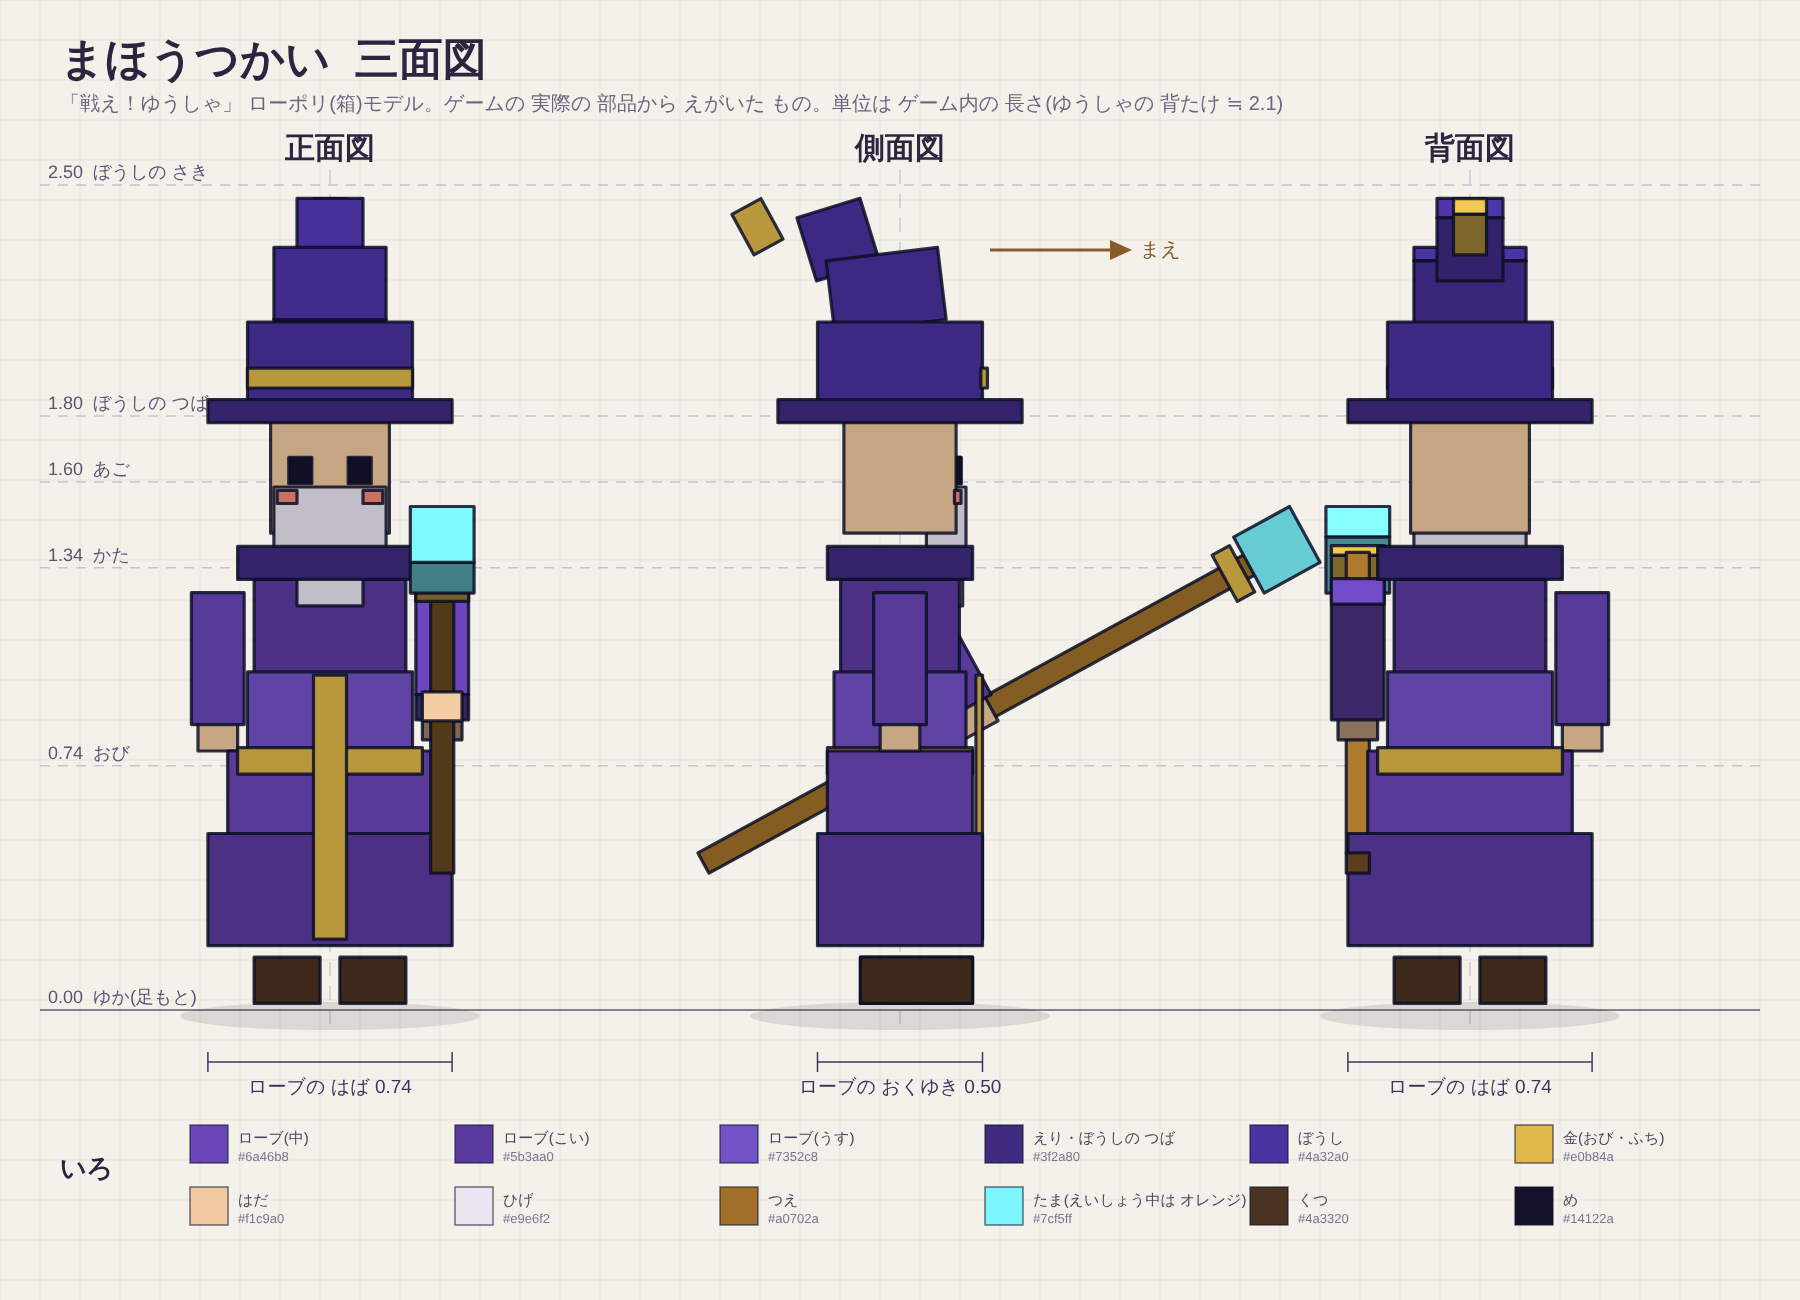
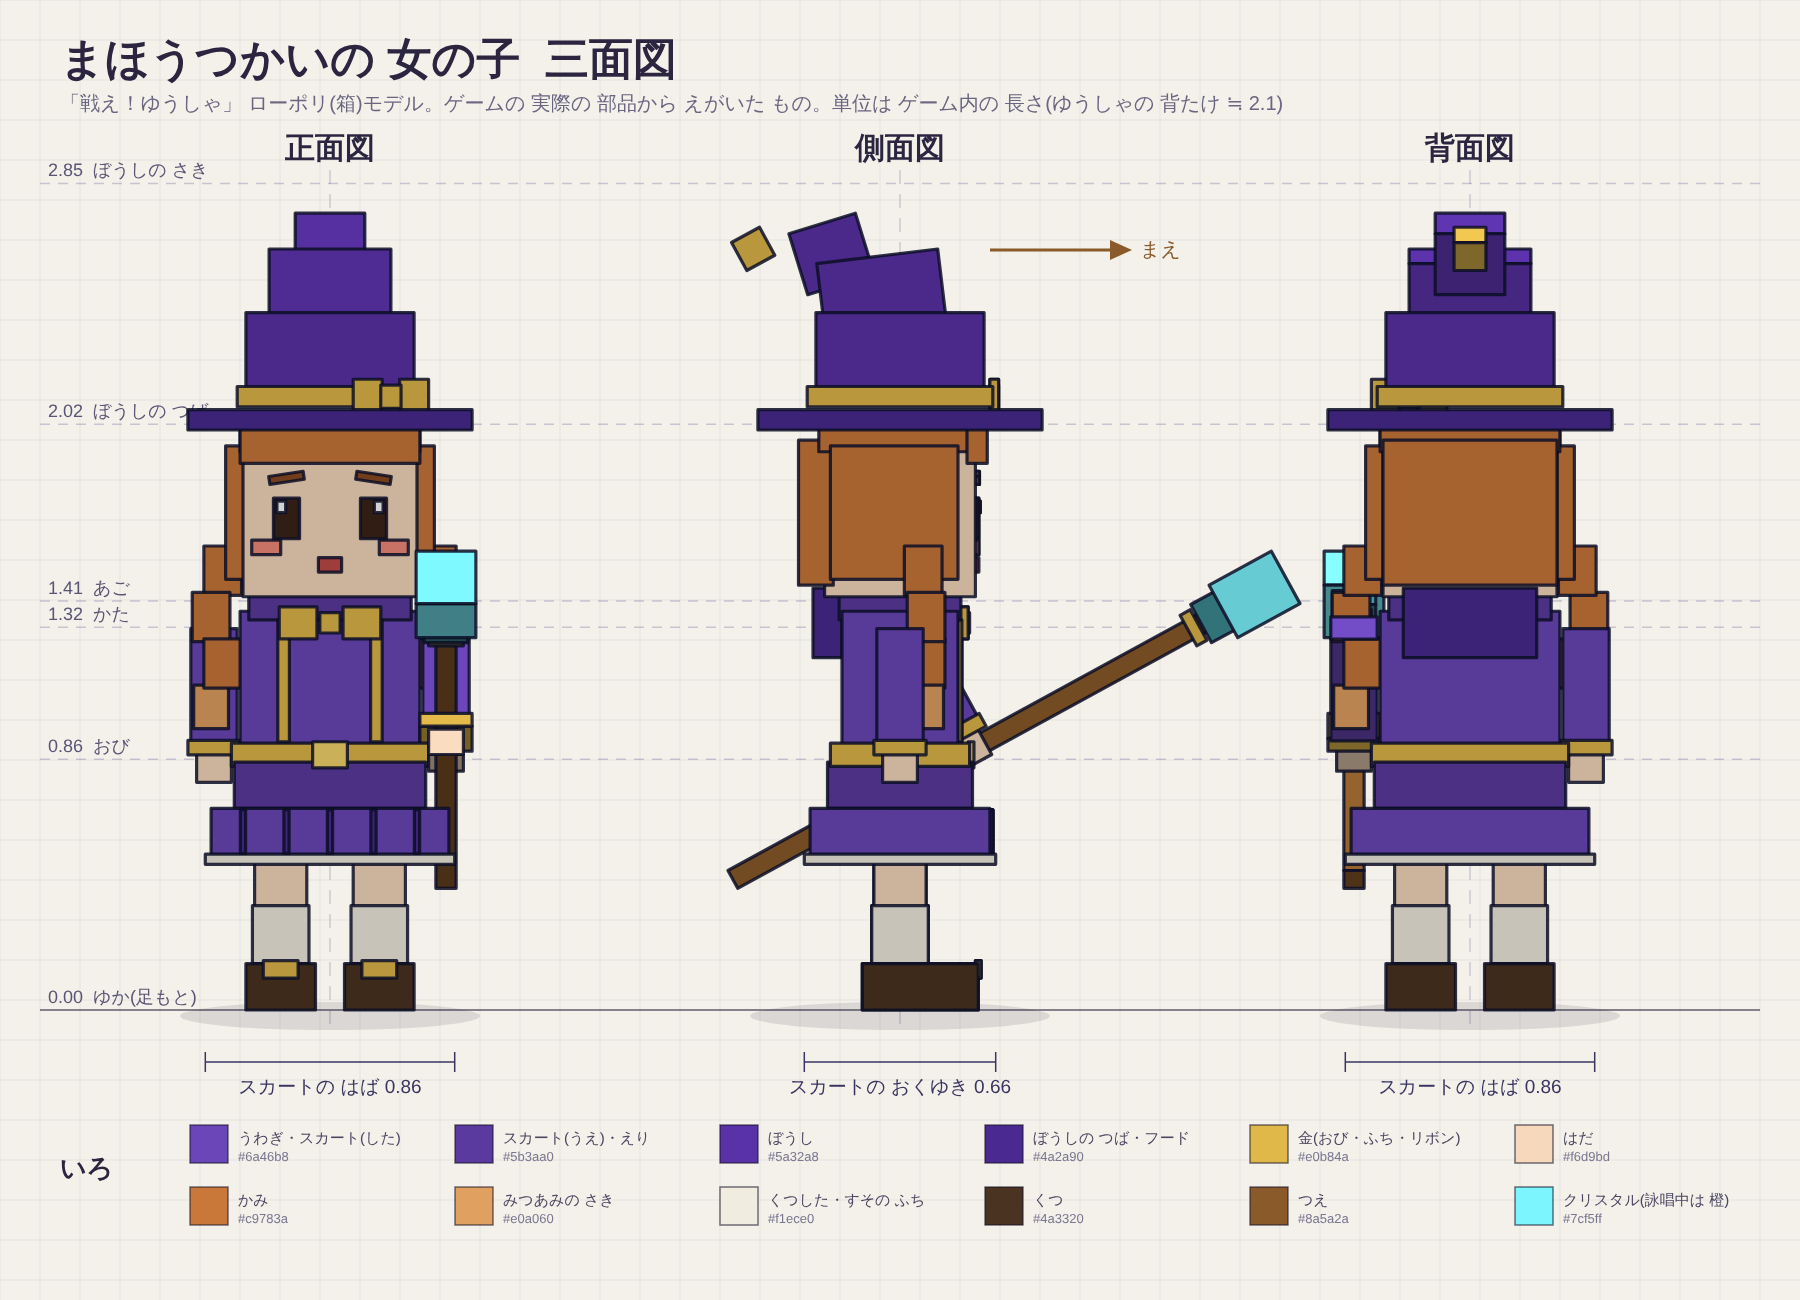
戦え！ゆうしゃ: まほうつかいを 女の子のデザインに変える(三面図も作りなおし)
- むらさきの とんがりぼうし(金の おび・リボン)、オレンジの かみ(ツインテールの みつあみ)、金の ふちの うわぎ・
  きいろい リボン・プリーツの スカート・かわの くつ・水いろの クリスタルの つえ。ちびキャラの たいけい
- 詠唱中の クリスタルの いろ・大きさ、たおれる 動き、歩きは そのまま
- 三面図(docs/mage-3view.png)を 新しい デザインで 作りなおした

Claude-Session: https://claude.ai/code/session_01GZCPfjk6Nwrr2GzwhtpaEB

diff --git a/games/Tatakae-Yusha/src/render2d.js b/games/Tatakae-Yusha/src/render2d.js
@@ -312,30 +312,69 @@ export function faceTo(o,tx,tz,rate){
   else if(o.yaw3===undefined)o.yaw3=Math.PI;
 }
 export function allyParts(yaw,mv,ph,cast,fire,down){
+  // まほうつかいの 女の子(ユーザー指定のデザイン 2026-11-22): むらさきの とんがりぼうし(金の おびと リボン)、オレンジの かみ(ツインテールの みつあみ)、
+  // 金の ふちの うわぎ・きいろい リボン・プリーツの スカート・しろい すそ、かわの くつ、水いろの クリスタルの つえ。ぜんぶ 箱の 部品
   const t=performance.now()/1000,bob=Math.sin(t*2.3)*0.02-Math.abs(Math.sin(ph))*0.05*mv;
   const parts=[],B=(cx,cy,cz,sx,sy,sz,col,ops,bias)=>parts.push({c:[cx,cy,cz],s:[sx,sy,sz],col,ops:ops||[],bias:bias||0});
+  const GOLD='#e0b84a',PUR='#6a46b8',PURD='#5b3aa0',HAT='#5a32a8',HATD='#4a2a90',SKIN='#f6d9bd',HAIR='#c9783a',HAIR2='#e0a060',SHOE='#4a3320',SOCK='#f1ece0';
   const sw=Math.sin(ph)*0.5*mv;
-  for(const sx of [-1,1])B(sx*0.13,0.09,0.05+sx*sw*0.1,0.2,0.14,0.34,'#4a3320',[{t:'x',a:sx*sw,p:[sx*0.13,0.4,0]}]);
-  B(0,0.35+bob,0,0.74,0.34,0.5,'#5b3aa0');B(0,0.62+bob,0,0.62,0.3,0.44,'#6a46b8');B(0,0.88+bob,0,0.5,0.26,0.4,'#7352c8');
-  B(0,0.6+bob,0.24,0.1,0.8,0.02,'#e0b84a',[],0.02);                // ローブの 金のすじ
-  B(0,0.74+bob,0,0.56,0.08,0.44,'#e0b84a');                          // おび
-  B(0,1.12+bob,0,0.46,0.34,0.36,'#5b3aa0');                           // むね
-  B(0,1.34+bob,0,0.56,0.1,0.44,'#3f2a80');B(0,1.32+bob,0,0.4,0.05,0.4,'#e0b84a'); // えり
-  B(0,1.6+bob,0,0.36,0.34,0.34,'#f1c9a0');                            // かお
-  for(const sx of [-1,1]){B(sx*0.09,1.62+bob,0.175,0.07,0.08,0.02,'#14122a',[],0.03);B(sx*0.13,1.54+bob,0.175,0.06,0.04,0.02,'#f08a7a',[],0.02);}
-  B(0,1.46+bob,0.14,0.34,0.22,0.12,'#e9e6f2');B(0,1.32+bob,0.14,0.2,0.22,0.1,'#e9e6f2'); // ひげ
-  B(0,1.8+bob,0,0.74,0.07,0.74,'#3f2a80');                            // ぼうしの つば
-  B(0,1.95+bob,0,0.5,0.24,0.5,'#4a32a0');B(0,2.17+bob,-0.02,0.34,0.22,0.34,'#4a32a0',[{t:'x',a:-0.12,p:[0,2.0,0]}]);
-  B(0,2.36+bob,-0.08,0.2,0.2,0.2,'#4a32a0',[{t:'x',a:-0.3,p:[0,2.0,0]}]);B(0,2.52+bob,-0.2,0.1,0.14,0.1,'#e0b84a',[{t:'x',a:-0.5,p:[0,2.0,0]}]);
-  B(0,1.9+bob,0.255,0.5,0.06,0.02,'#e0b84a',[],0.03);
-  // うで(ひだり: ふる / みぎ: つえ)
-  B(-0.34,1.05+bob,0.0,0.16,0.4,0.16,'#6a46b8',[{t:'x',a:-sw*0.8,p:[-0.34,1.28,0]}]);B(-0.34,0.82+bob,0.0,0.12,0.1,0.12,'#f1c9a0',[{t:'x',a:-sw*0.8,p:[-0.34,1.28,0]}]);
-  const ca=-0.5-0.9*Math.min(1,cast||0),ra=[{t:'x',a:ca,p:[0.34,1.28+bob,0]}];
-  B(0.34,1.05+bob,0,0.16,0.4,0.16,'#6a46b8',ra);B(0.34,0.82+bob,0,0.12,0.1,0.12,'#f1c9a0',ra);
-  B(0.34,0.82+bob,0.02,0.07,0.07,1.9,'#a0702a',ra);                  // つえ
-  const pul=0.14+0.04*Math.sin(t*6)+0.08*Math.min(1,cast||0)+0.12*Math.max(0,(cast||0)-1); // つよい 魔法の えいしょう中は たまが 大きくなる
-  B(0.34,0.82+bob,1.05,pul*1.5,pul*1.5,pul*1.5,fire?(fire==='strong'?'#ff6a2a':'#ffb040'):'#7cf5ff',ra,0.05);   // たま(ほのおの えいしょう中は オレンジ)
-  B(0.34,0.82+bob,0.9,0.16,0.16,0.06,'#e0b84a',ra);
+  // ---- あし(あるくと こうごに ふる)・くつ。あたまが 大きく あしが みじかい ちびキャラの たいけい ----
+  for(const sx of [-1,1]){
+    const px=sx*0.17,lp=[{t:'x',a:sx*sw,p:[px,0.52,0]}];
+    B(px,0.34,0,0.18,0.36,0.18,SKIN,lp);                  // あし
+    B(px,0.26,0,0.195,0.2,0.195,SOCK,lp);                 // くつした
+    B(px,0.08,0.07,0.24,0.16,0.4,SHOE,lp);                // くつ
+    B(px,0.14,0.27,0.12,0.06,0.02,GOLD,lp,0.02);          // くつの 金具
+  }
+  // ---- スカート(プリーツ)・おび・うわぎ ----
+  B(0,0.505+bob,0,0.86,0.035,0.66,SOCK);                   // すその しろい ふち
+  B(0,0.6+bob,0,0.82,0.16,0.62,PUR);                       // スカート(した)
+  for(const px of [-0.3,-0.15,0,0.15,0.3])B(px,0.6+bob,0.312,0.018,0.15,0.016,HATD,[],0.02); // プリーツの すじ
+  B(0,0.76+bob,0,0.66,0.16,0.5,PURD);                      // スカート(うえ)
+  B(0,0.865+bob,0,0.68,0.08,0.48,GOLD);                    // おび
+  B(0,0.865+bob,0.245,0.12,0.09,0.02,'#f4d56a',[],0.03);   // バックル
+  B(0,1.13+bob,0,0.62,0.46,0.4,PUR);                       // うわぎ
+  B(-0.16,1.12+bob,0.206,0.04,0.42,0.015,GOLD,[],0.03);B(0.16,1.12+bob,0.206,0.04,0.42,0.015,GOLD,[],0.03); // 金の すじ
+  B(0,1.38+bob,0,0.56,0.1,0.42,PURD);                      // えり
+  B(0,1.32+bob,-0.25,0.46,0.24,0.1,HATD);                  // フード(せなか)
+  B(0,1.32+bob,0.22,0.07,0.07,0.04,GOLD,[],0.04);          // きいろい リボン(まんなか)
+  B(-0.11,1.32+bob,0.22,0.13,0.11,0.03,GOLD,[],0.03);B(0.11,1.32+bob,0.22,0.13,0.11,0.03,GOLD,[],0.03);
+  // ---- あたま・かお(大きい) ----
+  B(0,1.68+bob,0,0.6,0.54,0.52,SKIN);                      // かお
+  for(const sx of [-1,1]){
+    B(sx*0.15,1.68+bob,0.262,0.09,0.14,0.02,'#3a2418',[],0.03);                 // め
+    B(sx*0.15+sx*0.018,1.72+bob,0.272,0.03,0.04,0.01,'#ffffff',[],0.04);        // めの ひかり
+    B(sx*0.22,1.58+bob,0.262,0.1,0.05,0.02,'#f08a7a',[],0.02);                  // ほほ
+    B(sx*0.15,1.82+bob,0.264,0.12,0.028,0.02,'#8a4a20',[{t:'z',a:sx*-0.15,p:[sx*0.15,1.82+bob,0.264]}],0.03); // まゆ
+  }
+  B(0,1.52+bob,0.262,0.08,0.05,0.02,'#c04848',[],0.03);    // くち
+  // ---- かみ(オレンジ。ツインテールの みつあみ) ----
+  B(0,1.94+bob,0.266,0.62,0.14,0.07,HAIR,[],0.015);        // まえがみ
+  B(0,1.97+bob,-0.01,0.62,0.12,0.54,HAIR);                 // あたまの うえ
+  for(const sx of [-1,1]){
+    B(sx*0.325,1.7+bob,-0.02,0.07,0.46,0.44,HAIR);         // よこの かみ
+    B(sx*0.37,1.5+bob,0.08,0.13,0.17,0.13,HAIR);B(sx*0.41,1.34+bob,0.09,0.13,0.17,0.13,HAIR);B(sx*0.37,1.18+bob,0.09,0.13,0.17,0.13,HAIR);B(sx*0.41,1.03+bob,0.09,0.12,0.15,0.12,HAIR2); // みつあみ
+  }
+  B(0,1.7+bob,-0.29,0.6,0.5,0.12,HAIR);                    // うしろの かみ
+  // ---- ぼうし(むらさき。金の おびと リボン) ----
+  B(0,2.02+bob,0,0.98,0.07,0.98,HATD);                     // つば
+  B(0,2.1+bob,0,0.64,0.07,0.64,GOLD,[],0.01);              // 金の おび
+  B(0.21,2.1+bob,0.325,0.07,0.08,0.03,GOLD,[],0.04);B(0.13,2.1+bob,0.325,0.1,0.12,0.03,GOLD,[],0.03);B(0.29,2.1+bob,0.325,0.1,0.12,0.03,GOLD,[],0.03); // おびの リボン
+  B(0,2.26+bob,0,0.58,0.26,0.58,HAT);
+  B(0,2.47+bob,-0.02,0.42,0.24,0.42,HAT,[{t:'x',a:-0.12,p:[0,2.1+bob,0]}]);
+  B(0,2.64+bob,-0.08,0.24,0.22,0.24,HAT,[{t:'x',a:-0.3,p:[0,2.1+bob,0]}]);
+  B(0,2.79+bob,-0.2,0.11,0.11,0.11,GOLD,[{t:'x',a:-0.5,p:[0,2.1+bob,0]}]); // さきの かざり
+  // ---- うで(ひだり: ふる / みぎ: つえ。金の そでぐち) ----
+  const sh=1.32,la=[{t:'x',a:-sw*0.8,p:[-0.4,sh+bob,0]}];
+  B(-0.4,1.1+bob,0,0.16,0.4,0.16,PUR,la);B(-0.4,0.89+bob,0,0.18,0.05,0.18,GOLD,la);B(-0.4,0.82+bob,0,0.12,0.1,0.12,SKIN,la);
+  const ca=-0.5-0.9*Math.min(1,cast||0),ra=[{t:'x',a:ca,p:[0.4,sh+bob,0]}];
+  B(0.4,1.1+bob,0,0.16,0.4,0.16,PUR,ra);B(0.4,0.89+bob,0,0.18,0.05,0.18,GOLD,ra);B(0.4,0.82+bob,0,0.12,0.1,0.12,SKIN,ra);
+  // ---- つえ(クリスタルの あたま) ----
+  B(0.4,0.82+bob,0.02,0.07,0.07,1.9,'#8a5a2a',ra);         // え
+  B(0.4,0.82+bob,0.88,0.12,0.12,0.04,GOLD,ra);             // 金の わ
+  B(0.4,0.82+bob,0.96,0.15,0.15,0.1,'#3d8a92',ra);         // はめこみ
+  const pul=0.14+0.04*Math.sin(t*6)+0.08*Math.min(1,cast||0)+0.12*Math.max(0,(cast||0)-1); // つよい 魔法の えいしょう中は クリスタルが 大きくなる
+  B(0.4,0.82+bob,1.12,pul*1.6,pul*1.6,pul*1.9,fire?(fire==='strong'?'#ff6a2a':'#ffb040'):'#7cf5ff',ra,0.05);   // クリスタル(ほのおの えいしょう中は オレンジ)
   // たおれた まほうつかい: うしろへ ばたりと たおれ、よこむきに なって その場に たおれたまま(ゆうしゃと おなじ たおれかた)
   let yawOut=yaw;
   if(down>0){

diff --git a/games/Tatakae-Yusha/tools/sansmen.js b/games/Tatakae-Yusha/tools/sansmen.js
@@ -22,14 +22,14 @@ const ROOT=path.resolve(__dirname,'..'),T3=process.env.THREE_DIR||'',OUT=process
    // はいけい
    c.fillStyle='#f3f1ea';c.fillRect(0,0,W,H);
    c.strokeStyle='rgba(60,60,80,.07)';c.lineWidth=1;for(let x=0;x<W;x+=40){c.beginPath();c.moveTo(x,0);c.lineTo(x,H);c.stroke();}for(let y=0;y<H;y+=40){c.beginPath();c.moveTo(0,y);c.lineTo(W,y);c.stroke();}
-   c.fillStyle='#2b2540';c.font='bold 44px '+FONT;c.textBaseline='middle';c.fillText('まほうつかい  三面図',60,62);
+   c.fillStyle='#2b2540';c.font='bold 44px '+FONT;c.textBaseline='middle';c.fillText('まほうつかいの 女の子  三面図',60,62);
    c.font='20px '+FONT;c.fillStyle='#6a6580';c.fillText('「戦え！ゆうしゃ」 ローポリ(箱)モデル。ゲームの 実際の 部品から えがいた もの。単位は ゲーム内の 長さ(ゆうしゃの 背たけ ≒ 2.1)',60,104);
    // 部品(アニメの ない ふだんの ポーズ)
    const model=m.allyParts(Math.PI,0,0,0,'',0).parts;
    let top=0;for(const p of model){const hh=p.c[1]+p.s[1]/2+0.3;if(hh>top)top=hh;}
-   const S=330,baseY=1010,cxs=[330,900,1470],views=[['正面図',0],['側面図',Math.PI/2],['背面図',Math.PI]];
+   const S=290,baseY=1010,cxs=[330,900,1470],views=[['正面図',0],['側面図',Math.PI/2],['背面図',Math.PI]];
    // たかさの ガイド
-   const guides=[[0,'ゆか(足もと)'],[0.74,'おび'],[1.34,'かた'],[1.6,'あご'],[1.8,'ぼうしの つば'],[2.5,'ぼうしの さき']];
+   const guides=[[0,'ゆか(足もと)'],[0.865,'おび'],[1.32,'かた'],[1.41,'あご'],[2.02,'ぼうしの つば'],[2.85,'ぼうしの さき']];
    c.font='18px '+FONT;
    for(const [hh,label] of guides){const y=baseY-hh*S;c.strokeStyle=hh===0?'rgba(40,36,60,.55)':'rgba(120,110,160,.35)';c.setLineDash(hh===0?[]:[10,8]);c.lineWidth=hh===0?2:1.5;c.beginPath();c.moveTo(40,y);c.lineTo(W-40,y);c.stroke();c.setLineDash([]);c.fillStyle='#5a5575';c.textAlign='left';c.fillText(hh.toFixed(2)+'  '+label,48,y-12);}
    // 中心線と モデル
@@ -48,12 +48,12 @@ const ROOT=path.resolve(__dirname,'..'),T3=process.env.THREE_DIR||'',OUT=process
     c.font='20px '+FONT;c.textAlign='left';c.fillStyle='#8a5a2a';c.fillText('まえ',x+240,y);}
    // 寸法(はば・おくゆき)
    const dim=(x1,x2,y,label)=>{c.strokeStyle='#3a3560';c.fillStyle='#3a3560';c.lineWidth=1.5;c.beginPath();c.moveTo(x1,y);c.lineTo(x2,y);c.stroke();for(const x of [x1,x2]){c.beginPath();c.moveTo(x,y-10);c.lineTo(x,y+10);c.stroke();}c.font='19px '+FONT;c.textAlign='center';c.fillText(label,(x1+x2)/2,y+26);};
-   dim(cxs[0]-0.37*S,cxs[0]+0.37*S,baseY+52,'ローブの はば 0.74');
-   dim(cxs[1]-0.25*S,cxs[1]+0.25*S,baseY+52,'ローブの おくゆき 0.50');
-   dim(cxs[2]-0.37*S,cxs[2]+0.37*S,baseY+52,'ローブの はば 0.74');
+   dim(cxs[0]-0.43*S,cxs[0]+0.43*S,baseY+52,'スカートの はば 0.86');
+   dim(cxs[1]-0.33*S,cxs[1]+0.33*S,baseY+52,'スカートの おくゆき 0.66');
+   dim(cxs[2]-0.43*S,cxs[2]+0.43*S,baseY+52,'スカートの はば 0.86');
    c.textAlign='left';
    // いろ
-   const sw=[['#6a46b8','ローブ(中)'],['#5b3aa0','ローブ(こい)'],['#7352c8','ローブ(うす)'],['#3f2a80','えり・ぼうしの つば'],['#4a32a0','ぼうし'],['#e0b84a','金(おび・ふち)'],['#f1c9a0','はだ'],['#e9e6f2','ひげ'],['#a0702a','つえ'],['#7cf5ff','たま(えいしょう中は オレンジ)'],['#4a3320','くつ'],['#14122a','め']];
+   const sw=[['#6a46b8','うわぎ・スカート(した)'],['#5b3aa0','スカート(うえ)・えり'],['#5a32a8','ぼうし'],['#4a2a90','ぼうしの つば・フード'],['#e0b84a','金(おび・ふち・リボン)'],['#f6d9bd','はだ'],['#c9783a','かみ'],['#e0a060','みつあみの さき'],['#f1ece0','くつした・すその ふち'],['#4a3320','くつ'],['#8a5a2a','つえ'],['#7cf5ff','クリスタル(詠唱中は 橙)']];
    c.fillStyle='#2b2540';c.font='bold 26px '+FONT;c.textAlign='left';c.fillText('いろ',60,1170);
    sw.forEach((q,i)=>{const col=i%6,row=Math.floor(i/6),x=190+col*265,y=1145+row*62;
      c.fillStyle=q[0];c.fillRect(x,y-20,38,38);c.strokeStyle='rgba(20,18,40,.6)';c.lineWidth=1.5;c.strokeRect(x,y-20,38,38);

diff --git a/games/Tatakae-Yusha/src/three-chars.js b/games/Tatakae-Yusha/src/three-chars.js
@@ -100,7 +100,7 @@ class BoxModel{
 }
 
 export function makeChars(scene,flyScene){
-  const hero=new BoxModel(80),ally=new BoxModel(60);scene.add(hero.obj,ally.obj);
+  const hero=new BoxModel(80),ally=new BoxModel(80);scene.add(hero.obj,ally.obj);
   const enemies=[];   // てき1体に 1つ
   const flyPool=[];   // 止めの演出(ざんぞう4つ × とんでいる数)
   // 画面から見た むき(yaw3。0=カメラのほうを向く)→ 世界の むき

diff --git a/games/Tatakae-Yusha/CLAUDE.md b/games/Tatakae-Yusha/CLAUDE.md
@@ -33,6 +33,12 @@
 - 作業は小さく分けて、段階ごとにコミットする。壊れたらすぐ戻せるようにする
 - 新しい挙動を足したら、ボット(headless)のシミュレーションで確認できる形を残す
 
+## まほうつかいのデザイン（ユーザー指定 2026-11-22）
+- まほうつかいは**女の子**（ユーザーが渡した「まほうつかいの女の子 戦闘ポーズ集」のデザイン）。むらさきのとんがりぼうし（金のおびと右前のリボン、先に金のかざり）、オレンジの髪（まえがみ・ツインテールの三つ編み）、大きな頭（目・ほほ・まゆ・くち）、金のふちの上着と金のすじ・きいろいリボン、プリーツのスカートとしろい裾、短い足（くつした・かわのくつに金具）、水色のクリスタルの杖（金のわ・はめこみ）。ちびキャラの体型（頭が大きく足が短い）
+- 形は `render2d.js` の `allyParts`（箱の部品 約 68 個。`BoxModel(80)` の範囲）。詠唱中のクリスタルの色（オレンジ）と大きさ、倒れるときの動き、歩きのアニメは前のまま
+- **三面図**は `docs/mage-3view.png`（`tools/sansmen.js` で作る）。モデルを変えたら再実行する
+- 元の絵のポーズ（杖でスイング・詠唱チャージ・魔法発射・バリア）は まだ作っていない（今は待機・詠唱・倒れるだけ）
+
 ## 負けるのは勇者だけ（ユーザー指示 2026-11-22）
 - **勇者以外（まほうつかい）が倒れても負けにならない**。負けるのは勇者のHPが 0 になったときだけ（`step` の最後）
 - 倒れたまほうつかいは、**その場でうしろへ倒れ（よこむきになって）、そのまま**。詠唱をやめる（すでに飛んでいる炎は当たる）。敵は狙わなくなり（ヘイト 0・狙いをはずす）、攻撃も当たらない（`hitAlly` ほか）。押し合いでもじゃまにならない。足もとの紫の輪は出さない。下のウィンドウは暗くなる
